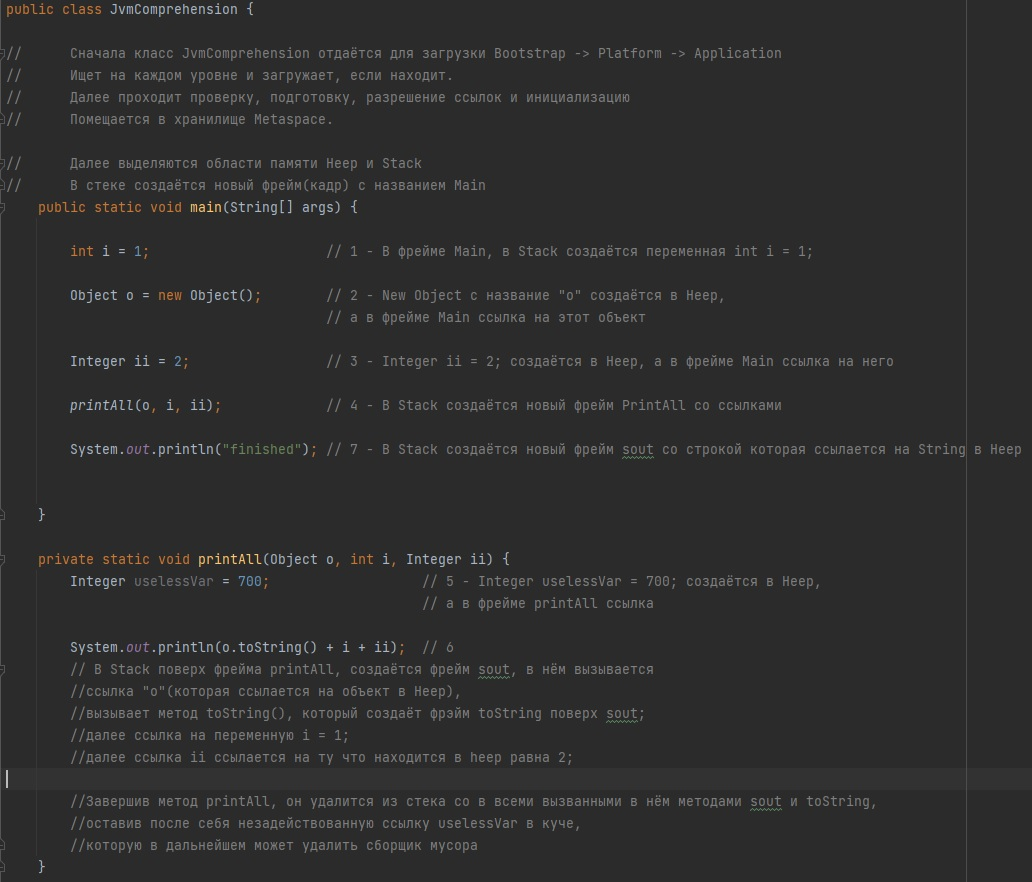
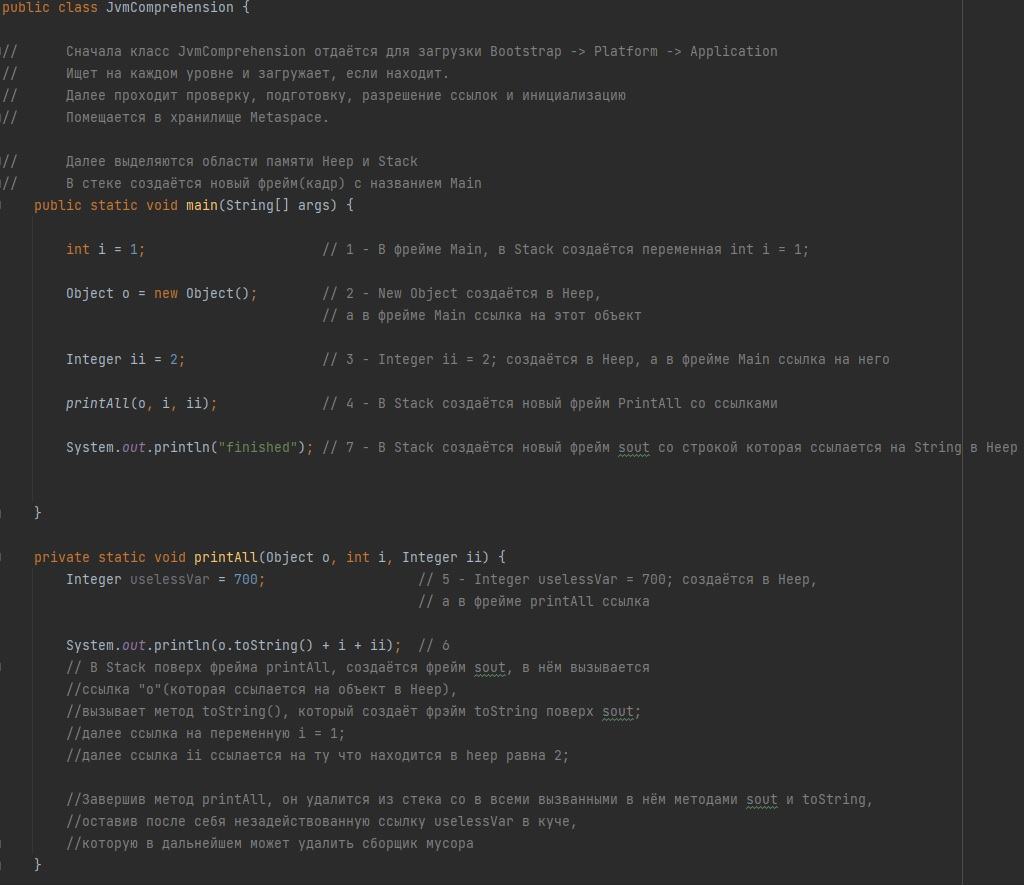
picture

diff --git a/src/main/java/org/example/JvmComprehension.java b/src/main/java/org/example/JvmComprehension.java
@@ -14,7 +14,7 @@ public class JvmComprehension {
 
         int i = 1;                      // 1 - В фрейме Main, в Stack создаётся переменная int i = 1;
 
-        Object o = new Object();        // 2 - New Object с название "о" создаётся в Heep,
+        Object o = new Object();        // 2 - New Object создаётся в Heep,
                                         // а в фрейме Main ссылка на этот объект
 
         Integer ii = 2;                 // 3 - Integer ii = 2; создаётся в Heep, а в фрейме Main ссылка на него

diff --git a/Readme.md b/Readme.md
@@ -5,5 +5,4 @@
  - ClassLoader'ы;
  - области памяти (стэк (и его фреймы), хип, метаспейс);
  - сборщик мусора;
-*** 
-![](D:\Java\Core\JVM_lesson\1.jpg)
+***
